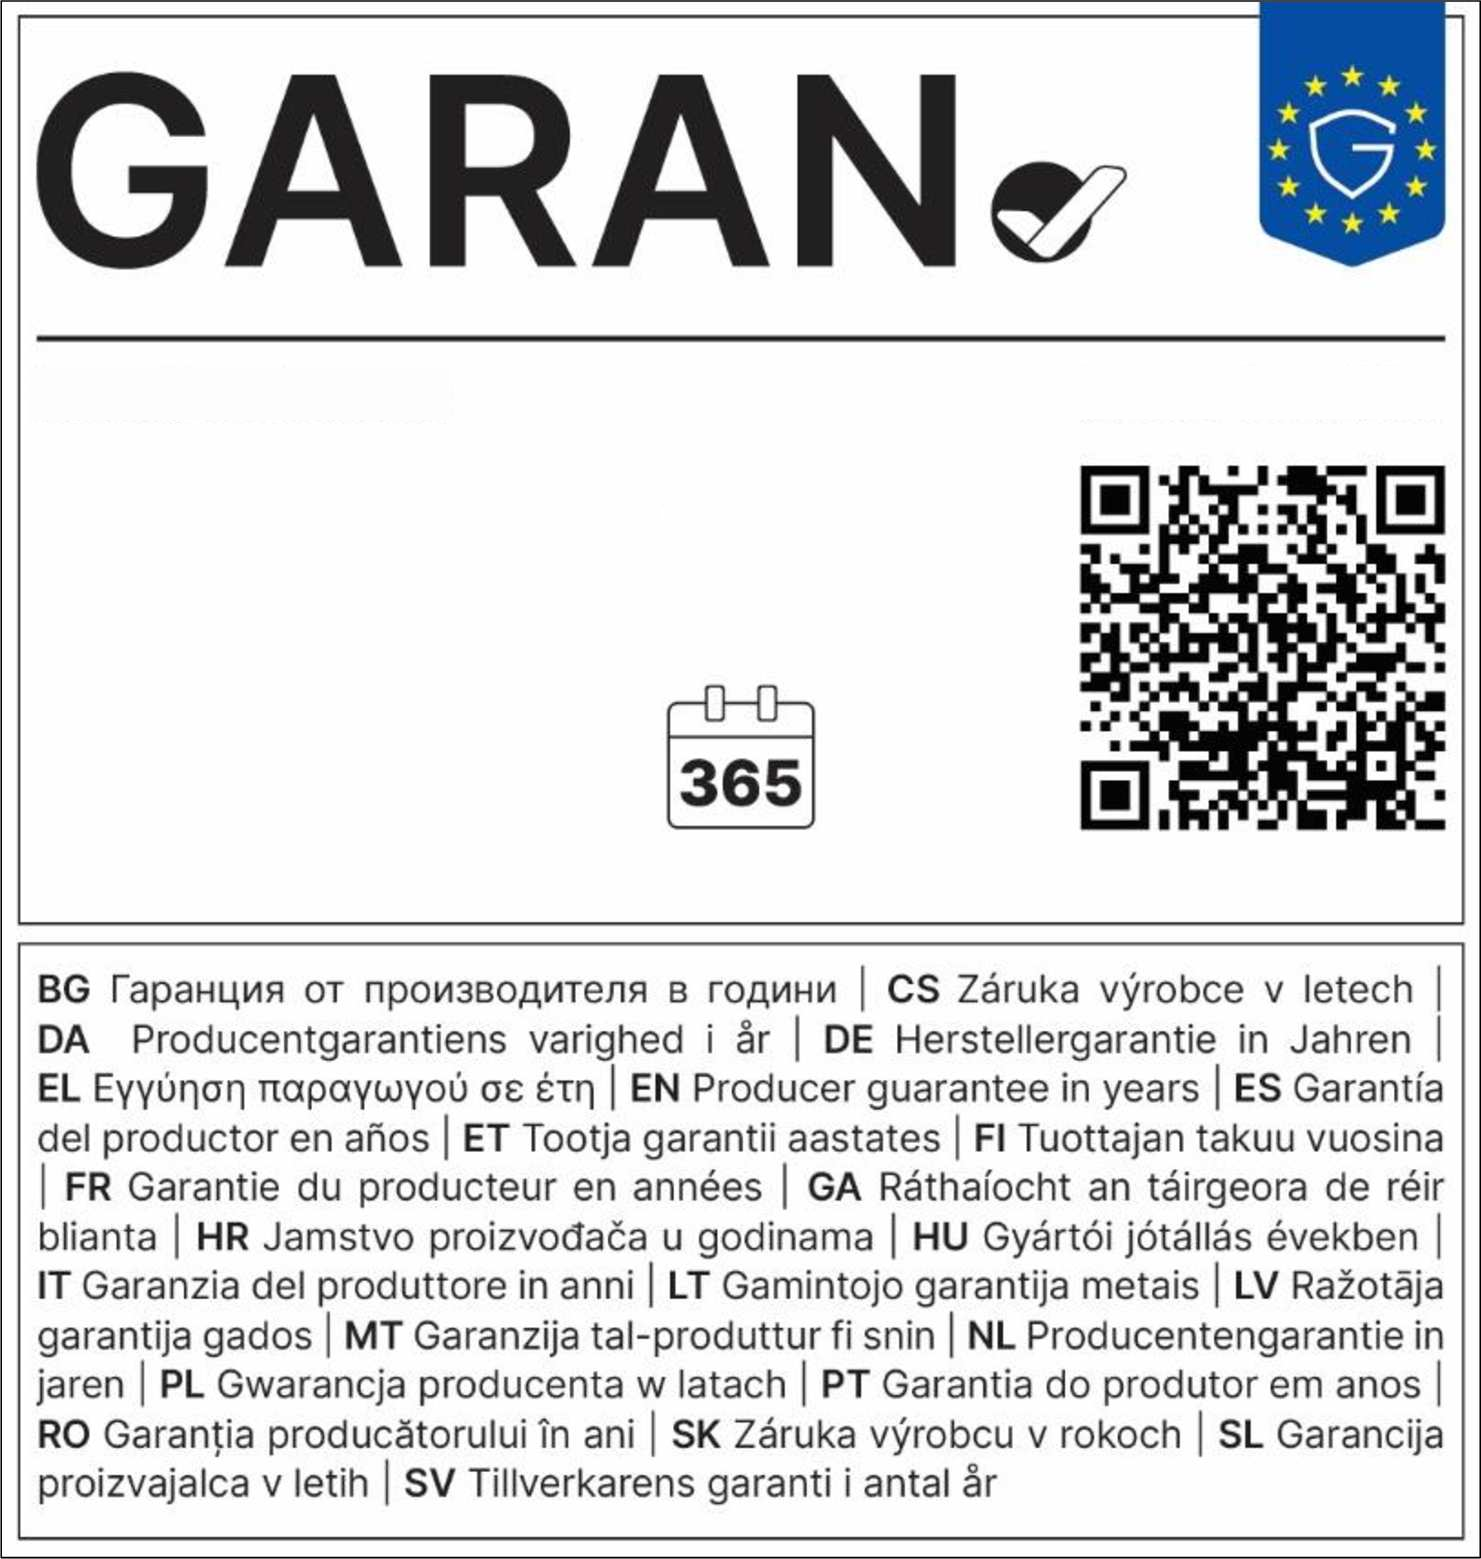
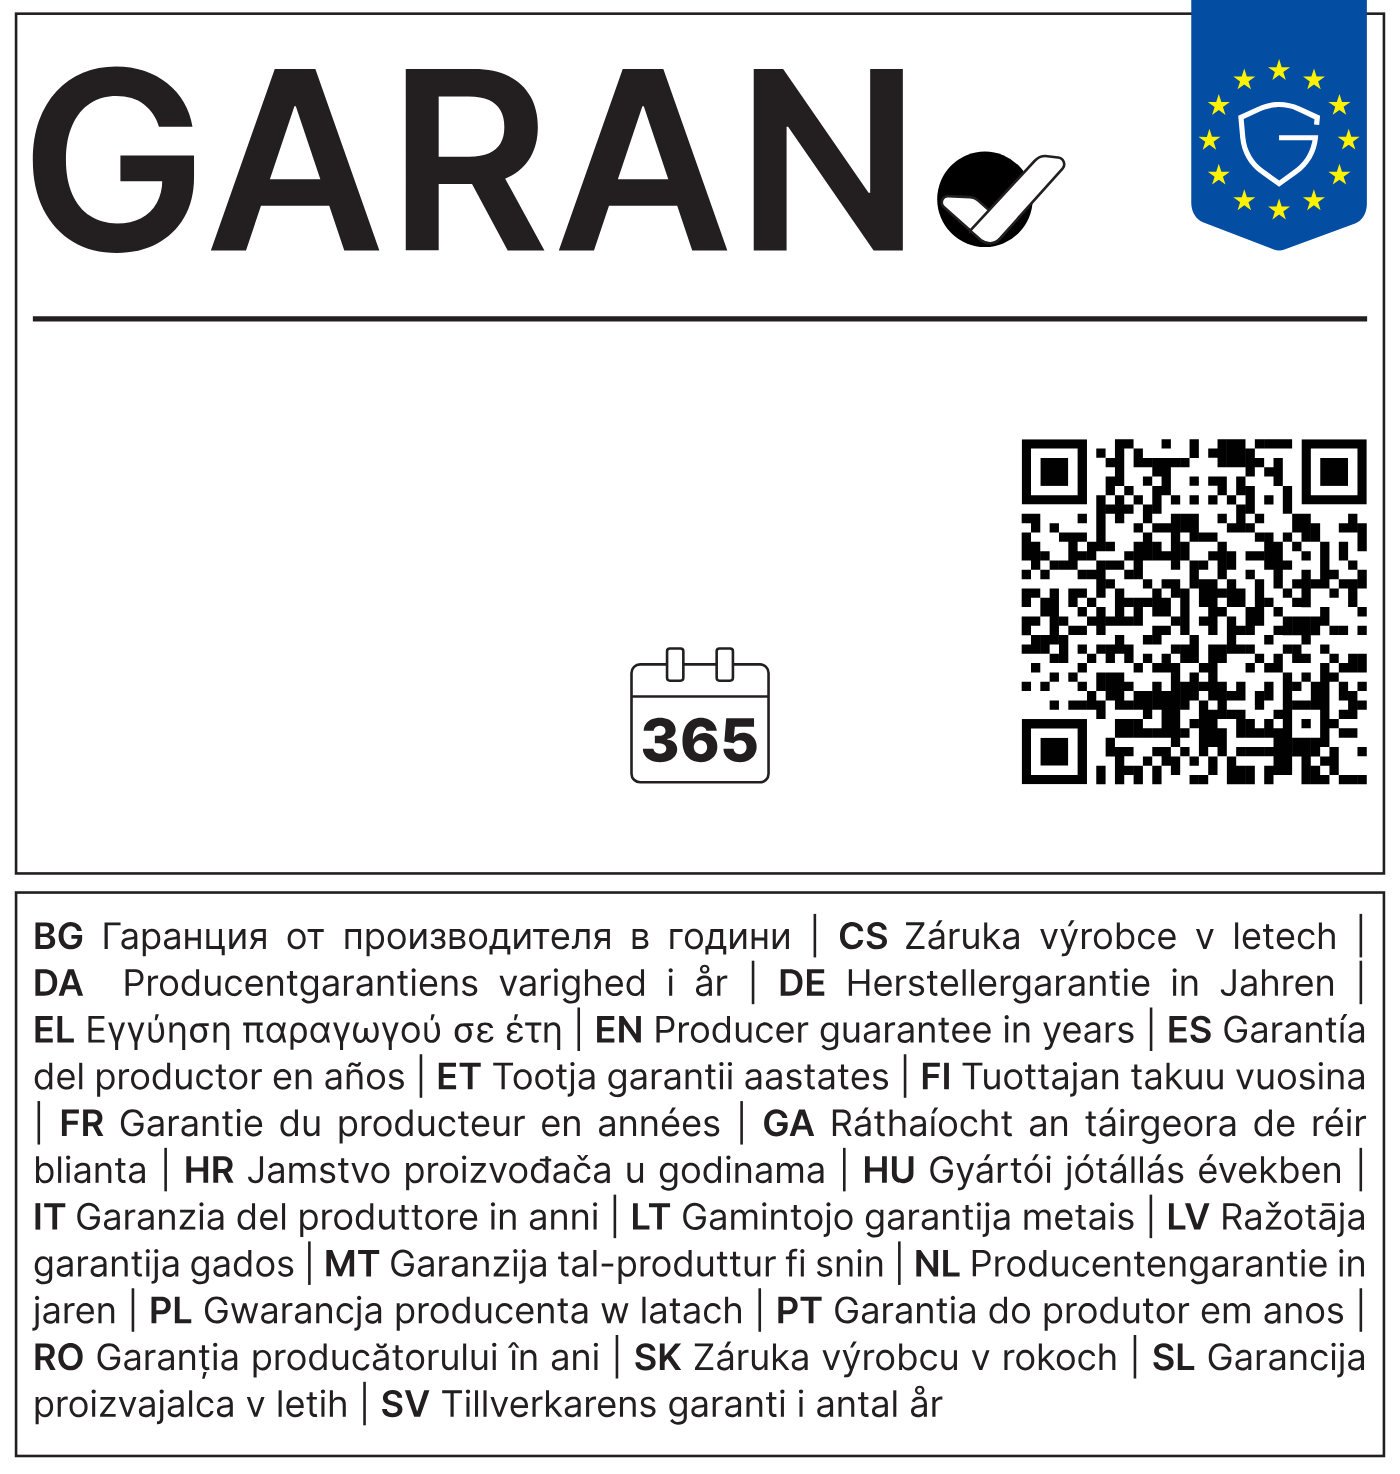
feat(#219): official Commission artwork v2 - label + nested templates, notice de/en

diff --git a/source/Core/GuaranteeLabel/assets/README.md b/source/Core/GuaranteeLabel/assets/README.md
@@ -6,7 +6,7 @@ CELEX `32025R1960`): the harmonised **notice** on the legal guarantee of conform
 (Annex I) and the harmonised **label** for the commercial guarantee of durability
 (Annex II).
 
-Retrieval date: **2026-07-15**.
+Retrieval date: **2026-07-16** (v2 — official Commission artwork packages).
 
 ## Legal note
 
@@ -14,40 +14,41 @@ Artwork per Reg. (EU) 2025/1960 Annexes I/II. **The notice must never be modifie
 it is per-language fixed artwork; every element (text, colours, QR code) is baked in
 and legally fixed. The **label** is one language-neutral artwork with exactly three
 editable areas (duration in years, brand/trademark, model identifier); these variable
-fields are composited at runtime by `GuaranteeLabelGenerator`. Both QR codes (notice
-and label) are static and part of the official artwork — they are never generated or
-altered. Colour is legally mandatory for online display
-(Pantone Reflex Blue C ≈ `#003399`, Pantone Yellow C ≈ `#FFED00`).
+fields are composited at runtime by `GuaranteeLabelGenerator`. The **nested banner** is
+the official reduced-display asset with exactly one editable area (the duration/year).
+Both QR codes (notice and label) are static and part of the official artwork — they are
+never generated or altered. Colour is legally mandatory for online display
+(Pantone Reflex Blue C ≈ `#003399`, rendered `#034ea2` in the artwork; Pantone Yellow C
+≈ `#FFED00`, rendered `#fff200`).
 
 ## Files
 
 | File | Purpose |
 |---|---|
-| `label-template.png` | Language-neutral Annex II label, colour, variable areas blanked (1481×1559). |
+| `label-template.png` | Language-neutral Annex II full label, colour, three variable areas blanked (1400×1474). |
+| `nested-template.png` | Official nested/reduced-display banner, colour, year area blanked (2211×340). |
 | `Inter-Regular.ttf` / `Inter-SemiBold.ttf` / `Inter-ExtraBold.ttf` | Fonts for runtime text compositing. |
 | `Inter-LICENSE.txt` | SIL Open Font License 1.1 for the Inter fonts. |
-| `../../../out/pictures/guarantee/notice-en.png` | Annex I notice, English, colour (1186×1675). |
-| `../../../out/pictures/guarantee/notice-de.png` | Annex I notice, German, colour (1224×1675). |
+| `../../../out/pictures/guarantee/notice-en.png` | Annex I notice, English, colour (1185×1675). |
+| `../../../out/pictures/guarantee/notice-de.png` | Annex I notice, German, colour (1185×1675). |
 
 ## Sources (exact URLs)
 
-**Official artwork — Regulation (EU) 2025/1960.**
-The Commission "ready-made files" landing page
-`https://commission.europa.eu/publications/harmonised-notice-legal-guarantee-conformity-and-harmonised-label-commercial-guarantee-durability_en`
-offers only the regulation and its annexes as documents; its "Annexes" link redirects to
-the EUR-Lex OJ rendition, which is served behind an AWS WAF JS-challenge and cannot be
-fetched non-interactively. The authoritative artwork was therefore taken from the official
-**OJ PDF/A-2a manifestations** (the authoritative depiction) via the Publications Office
-CELLAR content-negotiation endpoint (not WAF-gated):
+**Official Commission artwork packages** (the Commission's own "ready-made files",
+verified downloadable 2026-07-16):
 
-- English act (Annex I EN notice + Annex II label):
-  `http://publications.europa.eu/resource/oj/L_202501960.ENG.pdfa2a.L_202501960EN.pdf`
-- German act (Annex I DE notice):
-  `http://publications.europa.eu/resource/oj/L_202501960.DEU.pdfa2a.L_202501960DE.pdf`
+- **GARAN label package** (colour/bw/nested, SVG + PNG + JPG):
+  `https://commission.europa.eu/document/download/435fbeb1-fccc-4ead-bfa9-96625962ba09_en?filename=GARAN%20label%20for%20website.zip`
+  — `label-template.png` is rasterized from `GARAN Label_colour.svg`; `nested-template.png`
+  from `GARAN Label_nested display.svg`.
+- **Harmonised notice, 24 languages** (colour + black-and-white, one PDF per language):
+  `https://commission.europa.eu/document/download/29acbfc0-a26e-4c21-85af-8bc2b167103e_en?filename=Harmonised%20notice%20in%2024%20languages%20colour%20and%20black%20and%20white_0.zip`
+  — `notice-de.png` from `Legal guarantee_notice DEN.pdf`, `notice-en.png` from
+  `Legal guarantee_notice ENG.pdf`. Each PDF has 2 pages: **page 0 = colour** (used here),
+  page 1 = black-and-white (unused).
 
-(CELEX `32025R1960` resolves to CELLAR work `cellar:471b4f1e-9f2a-11f0-97c8-01aa75ed71a1`.)
-The label is language-neutral; it was taken from the English PDF (identical artwork appears
-in every language edition). No third-party recreations were used.
+The label SVG is language-neutral; the nested banner and the notice are the Commission's
+official display assets. No third-party recreations were used.
 
 **Inter fonts.**
 `https://github.com/rsms/inter/releases/download/v4.1/Inter-4.1.zip`
@@ -56,45 +57,64 @@ inside the zip; license from `LICENSE.txt` (SIL OFL 1.1), saved as `Inter-LICENS
 
 ## Conversion / preparation commands
 
-Embedded artwork images were extracted from the PDF/A at native resolution with PyMuPDF
-(`page.get_images` + `doc.extract_image`). The relevant XObjects were:
+**Templates (SVG → PNG).** In *copies* of the two SVGs, the editable `<text>` elements
+were blanked (their text content emptied; nothing else changed). All *fixed* typography
+in the official SVGs (GARAN wordmark, "365", the 27-language legend) is stored as vector
+paths, not live text — so the rasterizer never needs a text font for the fixed artwork, and
+the only live `<text>` elements are exactly the editable fields (removed here). The Inter
+TTFs above are still shipped for runtime compositing by `GuaranteeLabelGenerator`.
 
-- notice colour: EN 2372×3350, DE 2437×3336 (RGB JPEG)
-- label colour (language-neutral): 1481×1559 (RGB JPEG)
-- (mono variants, the annotated specification diagram and the horizontal banner variant
-  were present in the PDF but are not used here.)
+Rasterized with **headless Google Chrome** (deterministic; renders the vector paths and the
+blue/yellow colours exactly). Each blanked SVG was inlined into a minimal wrapper HTML
+(`@font-face` pointing at the local Inter TTFs, `svg{width:<target>px;height:auto}`,
+white background) and captured at 1:1:
 
-PNG conversion + notice downscale (PHP GD):
-
-```php
-// JPEG -> truecolour RGB PNG (label kept at native 1481×1559)
-$im = imagecreatefromjpeg($jpeg); imagepng($rgbCopy, $out, 9);
-
-// notice downscaled to 1675 px height (bicubic), preserving aspect ratio
-imagecopyresampled($dst, $im, 0,0,0,0, $nw, 1675, $w, $h); imagepng($dst, $out, 9);
+```
+"Google Chrome" --headless=new --disable-gpu --hide-scrollbars \
+  --force-device-scale-factor=1 --default-background-color=ffffffff \
+  --window-size=1400,1474 --screenshot=label-template.png file://.../label_blank.html
+# nested: --window-size=2211,340
 ```
 
-Resulting sizes: `label-template.png` 1481×1559, `notice-en.png` 1186×1675,
-`notice-de.png` 1224×1675. All RGB, `image/png`, QR modules verified crisp and scannable.
+- Full label: `GARAN Label_colour.svg` viewBox `269.29×283.46`, target width 1400 px
+  (scale ≈ **5.19886**) → **1400×1474**.
+- Nested banner: `GARAN Label_nested display.svg` viewBox `368.5×56.69`, **6×** → **2211×340**.
 
-## Blanked variable areas (label-template.png, 1481×1559)
+Result verified visually against the package's official `GARAN Label_colour.jpg`
+(fixed typography, QR modules and colours identical).
 
-Each region was blanked by filling a rectangle with the white background colour sampled at
-the box's top-left corner (`imagecolorat`). Coordinates are pixels on the final template,
-origin top-left, given as `[x0, y0, x1, y1]` (inclusive fill rectangle):
+**Notices (PDF → PNG).** Rendered with **PyMuPDF** (`page.get_pixmap`) at a zoom of
+`1675 / 841.89 ≈ 1.9896` so the A4 page (595.276×841.89 pt) yields **1185×1675 px**
+(height ≤ 1675). Page 0 (colour) only. The full official page is preserved unmodified —
+**no cropping** (the notice may never be altered). QR modules verified crisp/scannable.
 
-| # | Field | `[x0, y0, x1, y1]` | x, y, w, h |
-|---|---|---|---|
-| VII  | Brand/Trademark  | `[30, 368, 448, 419]`   | x=30,  y=368, w=418, h=51  |
-| VIII | Model identifier | `[1076, 366, 1458, 418]` | x=1076, y=366, w=382, h=52 |
-| VI   | Duration ("XX")  | `[24, 496, 660, 840]`   | x=24,  y=496, w=636, h=344 |
+Resulting sizes: `label-template.png` 1400×1474, `nested-template.png` 2211×340,
+`notice-en.png` 1185×1675, `notice-de.png` 1185×1675. All RGB, `image/png`.
 
-**Fixed reference points for runtime compositing (Task 5), same coordinate system:**
+## Blanked variable areas — bounding boxes for runtime compositing (Task 2)
 
-- Original placeholder text extents: Brand/Trademark x≈41–434 y≈378–409;
-  Model identifier x≈1087–1445 y≈376–410; "XX" x≈41–653 y≈509–827.
-- Calendar/"365" icon (fixed, keep clear): left edge at **x≈667**.
-- Inner border lines (double frame): left **x≈19**, right **x≈1463**; outer frame right **x≈1479**.
-- Divider under "GARAN": **y≈336–340**. Bottom multilingual legend box starts at **y≈922**.
-- The EU shield (top-right), GARAN wordmark + checkmark, QR code, "365" calendar and the
-  27-language legend are all fixed artwork and were left untouched.
+Boxes are the **ink bounding box of the original placeholder text** (the pixels that
+disappeared when the field was blanked), measured by diffing the original vs. blanked
+render. Pixels, origin top-left, `[x0, y0, x1, y1]` inclusive plus `x, y, w, h`.
+The SVG anchor is the `<text>` element's `translate()` origin, i.e. the **left edge of the
+baseline** — the natural reference for re-compositing runtime text in the correct font.
+
+### `label-template.png` (1400×1474) — scale ≈ 5.19886 from viewBox 269.29×283.46
+
+| Field | SVG `<text>` (font) | SVG anchor (baseline L) | Baseline px (x, y) | Ink box `[x0,y0,x1,y1]` | x, y, w, h |
+|---|---|---|---|---|---|
+| Brand/Trademark  | `translate(6.32, 74.52)` cls-5, Inter-Regular 9px      | (6.32, 74.52)   | (33, 387)   | `[36, 351, 417, 391]`   | x=36,  y=351, w=382, h=41  |
+| Model identifier | `translate(196.75, 74.52)` cls-5, Inter-Regular 9px    | (196.75, 74.52) | (1023, 387) | `[1026, 351, 1367, 387]` | x=1026, y=351, w=342, h=37 |
+| Duration ("XX")  | `translate(5.07, 150.57)` cls-3, Inter-ExtraBold 80px  | (5.07, 150.57)  | (26, 783)   | `[36, 480, 635, 782]`   | x=36,  y=480, w=600, h=303 |
+
+### `nested-template.png` (2211×340) — scale 6× from viewBox 368.5×56.69
+
+| Field | SVG `<text>` (font) | SVG anchor (baseline L) | Baseline px (x, y) | Ink box `[x0,y0,x1,y1]` | x, y, w, h |
+|---|---|---|---|---|---|
+| Duration/year ("XX") | `translate(10.39, 46.65)` cls-1, Inter-ExtraBold 41.56px | (10.39, 46.65) | (62, 280) | `[68, 98, 429, 279]` | x=68, y=98, w=362, h=182 |
+
+Fixed elements left untouched on both templates: the GARAN wordmark + checkmark, the EU
+shield ("G"), the QR code, the "365" calendar icon and (full label) the 27-language legend.
+On the nested banner the "365" calendar icon and the vertical divider line (SVG x=93.73 →
+px≈562) sit to the right of the year field; the divider is the right boundary of the
+editable area.
